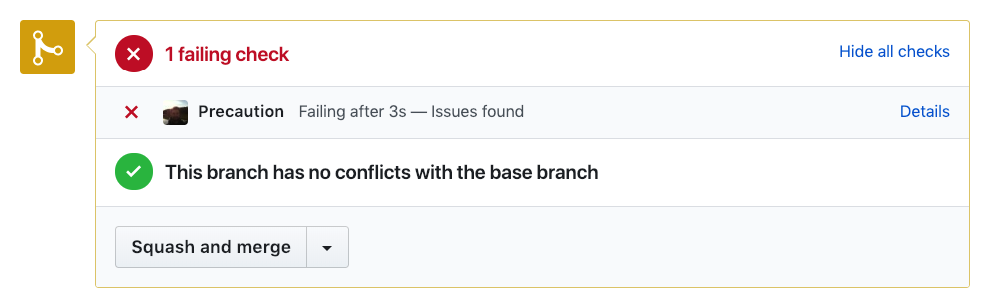
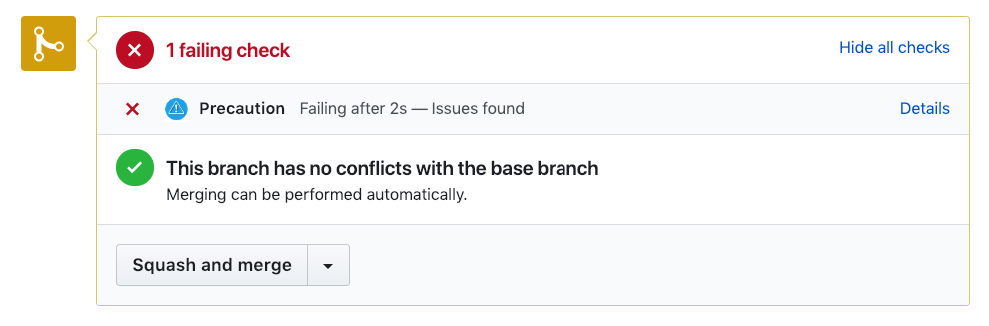
Update the check_fails pic + rephrasing some sentences

diff --git a/docs/initial_setup.md b/docs/initial_setup.md
@@ -7,8 +7,8 @@
 
 ## Run static code analysis locally (recommended)
 
-In order to achieve the best results when using Precaution, it's important to run static code analysis on the codebase in your main branch locally. 
-The reason to do that is that there can be many older source code files which are stable and won't be changed soon by a pull request but still it's good to ensure they don't contain common security-related mistakes.
+Precaution scans new pull requests for security vulnerabilities and if in a pull request there are modifications of old source code it is likely that Precaution will find issues not related with the pull request changes but with the old source code in the modified file.
+Therefore for best results, before using Precaution it is recommended to run static code analysis for security problems locally. That way when you resolve the possible issues you can ensure that the current code base does not contain common security issues.
 
 You can run static code analysis of Python source code using Bandit: https://github.com/PyCQA/bandit 
 
@@ -52,4 +52,4 @@ If you want to apply this rule to the master branch you will have to check the f
 
 
 
-Congratulations! Branch protection is now enabled and will prevent merging code that fails the status check.
+Congratulations! Now Precaution will prevent the merging of a pull request if the check resulted in a failure status.
